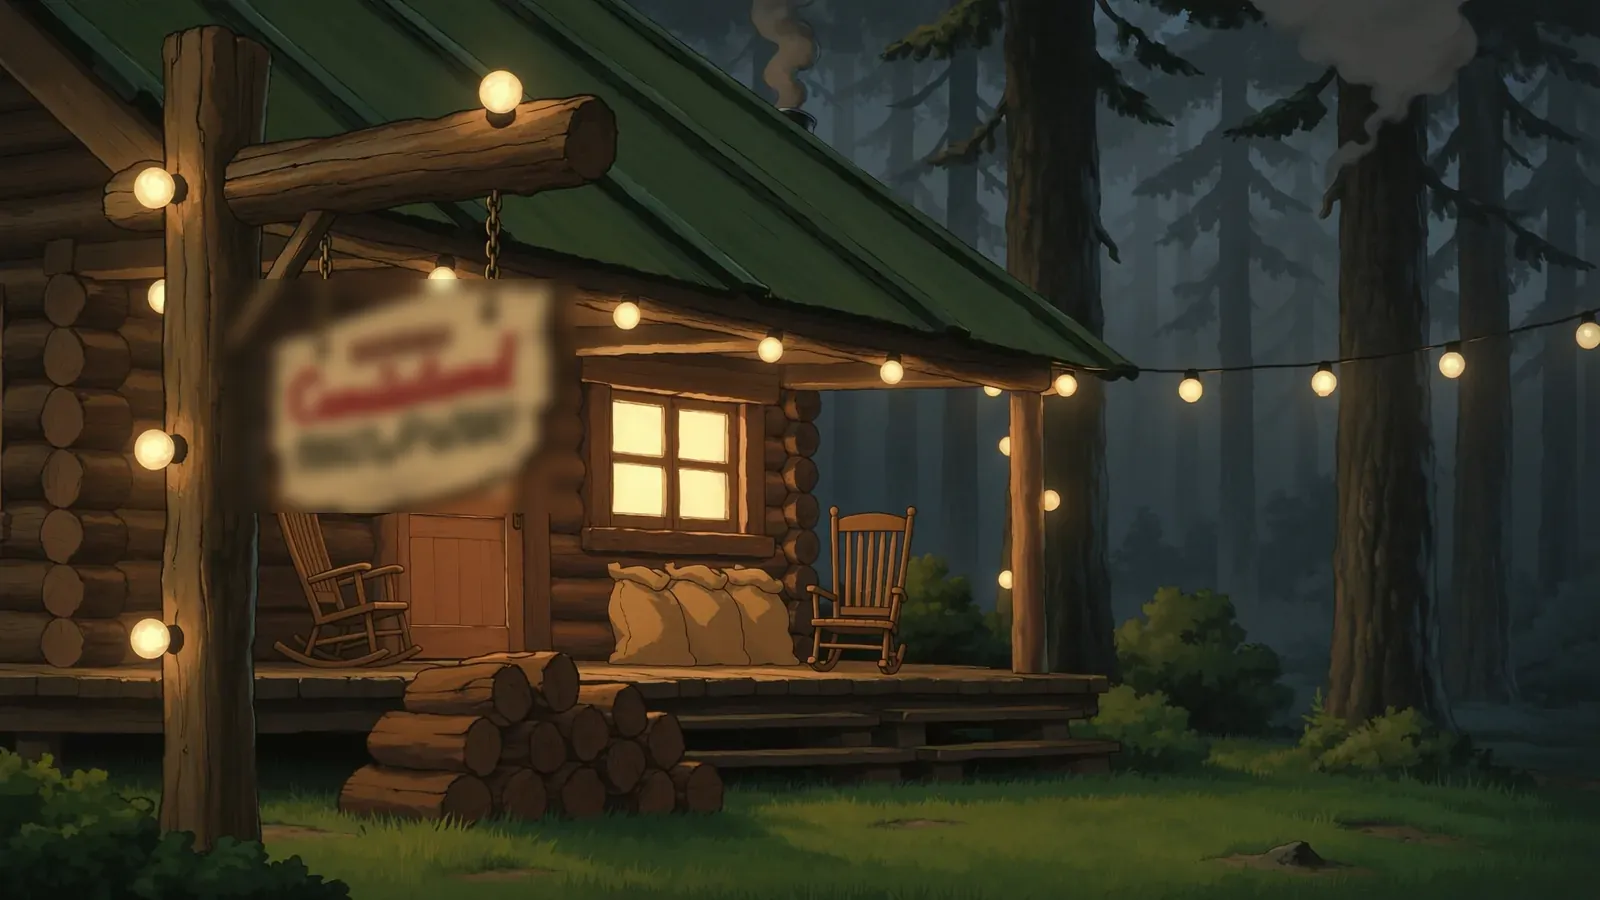
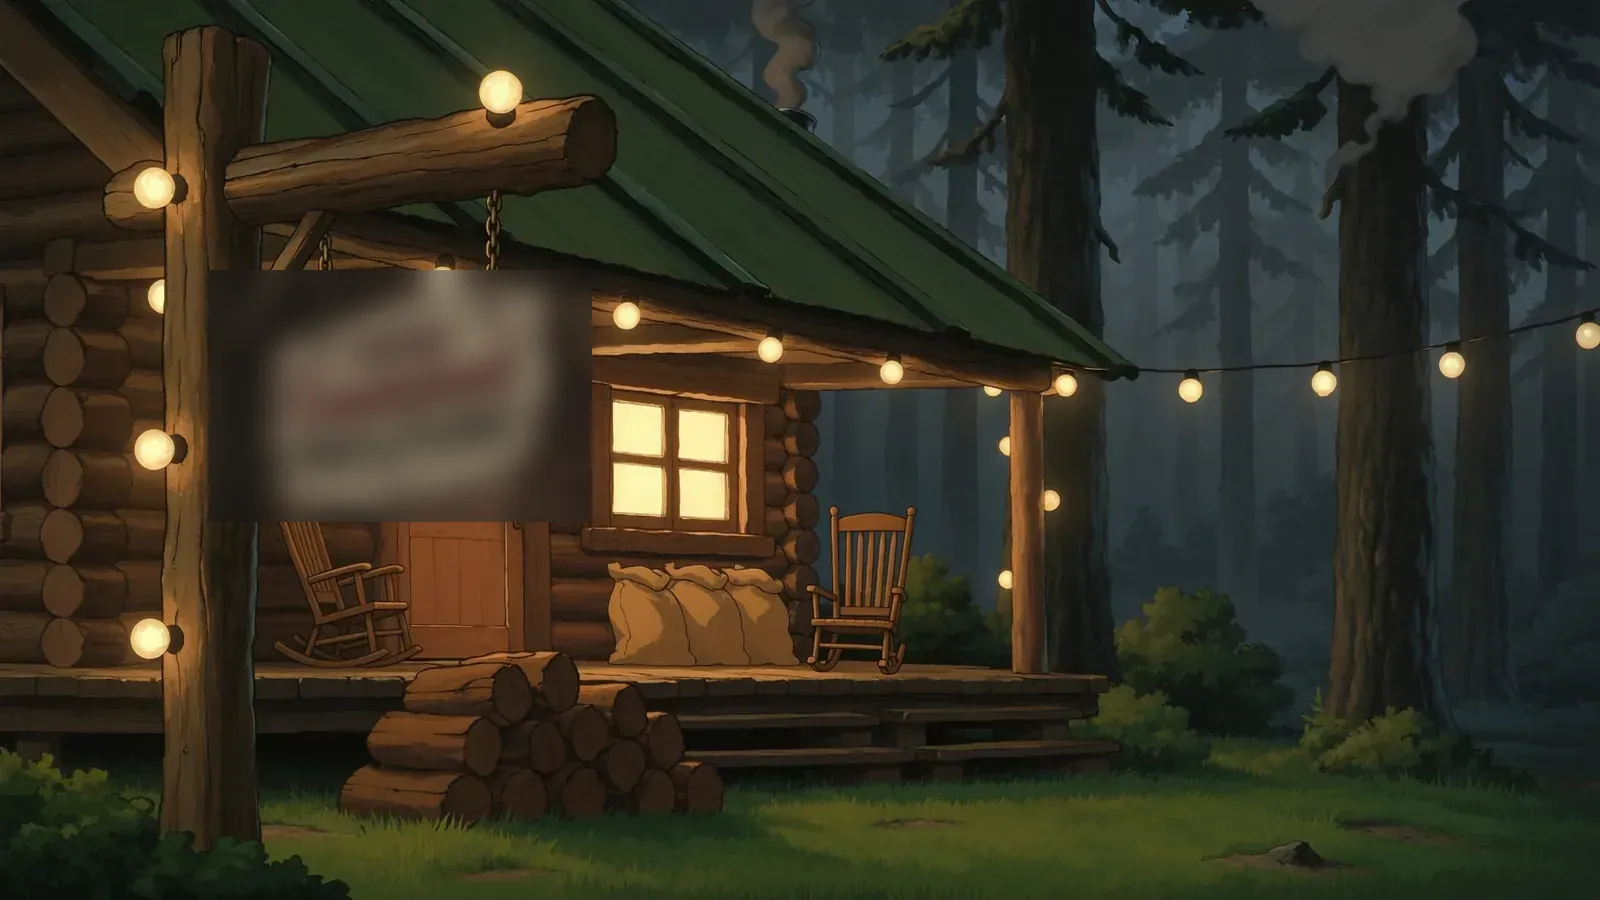
Polish: exit-intent email popup, mobile refinements, cleaner shop sign
- Add exit-intent + timed email-capture popup (Simon-fronted, editable).
- Mobile: single-line announcement, hero heading sizing, full-width CTAs.
- Neutralize residual AI text on the coffee-shop sign asset.
- Verified home page renders cleanly at desktop (1440) and mobile widths
  via headless Chromium.

Claude-Session: https://claude.ai/code/session_01QSTZfrbYxQvPfPBvZ7ahf3

Changed region(s): [[0.1562, 0.28, 0.375, 0.5911], [0.125, 0.28, 0.1875, 0.3733]]

diff --git a/assets/forest.css b/assets/forest.css
@@ -46,6 +46,11 @@
 .forest-hero__sub { font-size: var(--fs-500); color: rgba(255,255,255,.92); text-shadow: 0 1px 12px rgba(6,14,9,.5); max-width: 46ch; }
 .forest-hero__cta { display: flex; flex-wrap: wrap; gap: .8rem; margin-top: 1.6rem; }
 .hero-slogan { font-family: var(--font-head); font-style: italic; font-size: var(--fs-600); color: var(--gold-400); margin-top: 1.4rem; }
+@media (max-width: 749px) {
+  .forest-hero h1 { font-size: clamp(2.1rem, 10vw, 3.2rem); }
+  .forest-hero { min-height: min(88svh, 720px); }
+  .forest-hero__cta .btn { flex: 1 1 auto; justify-content: center; }
+}
 
 /* Scroll cue */
 .scroll-cue { position: absolute; left: 50%; bottom: 1.4rem; transform: translateX(-50%); z-index: 3; display: grid; place-items: center; gap: .4rem; color: rgba(255,255,255,.85); font-size: var(--fs-200); letter-spacing: .14em; text-transform: uppercase; }

diff --git a/assets/base.css b/assets/base.css
@@ -249,7 +249,8 @@ button { font: inherit; cursor: pointer; }
 
 /* --------------------------------------------------------- Announcement */
 .announcement { background: var(--forest-800); color: var(--cream-100); font-size: var(--fs-300); }
-.announcement__track { display: flex; align-items: center; justify-content: center; gap: 2rem; padding: .55rem var(--pad); text-align: center; }
+.announcement__track { display: flex; align-items: center; justify-content: center; gap: 2rem; padding: .55rem var(--pad); text-align: center; flex-wrap: wrap; }
+@media (max-width: 749px) { .announcement__track { gap: .9rem; font-size: .78rem; } .announcement__item:nth-child(n+2) { display: none; } }
 .announcement a { color: var(--gold-400); }
 
 /* ------------------------------------------------------------- Utilities */
